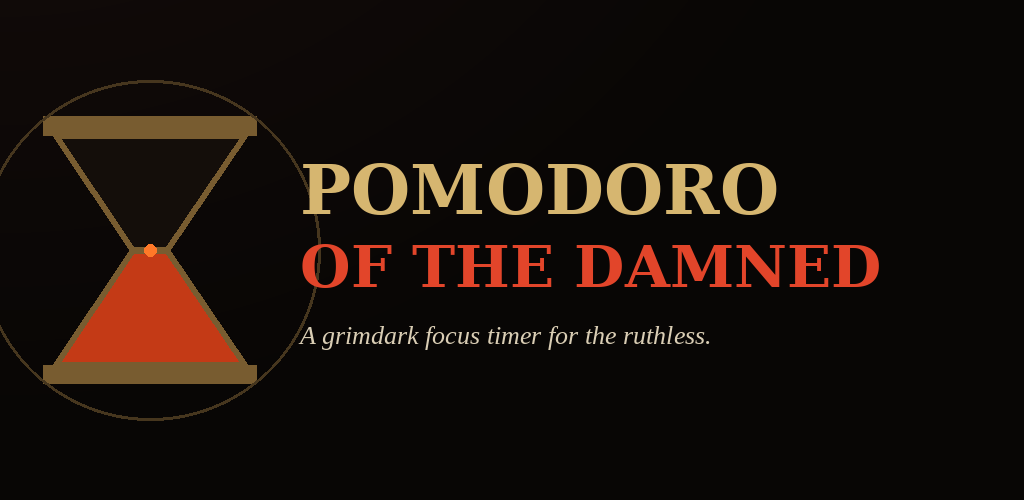
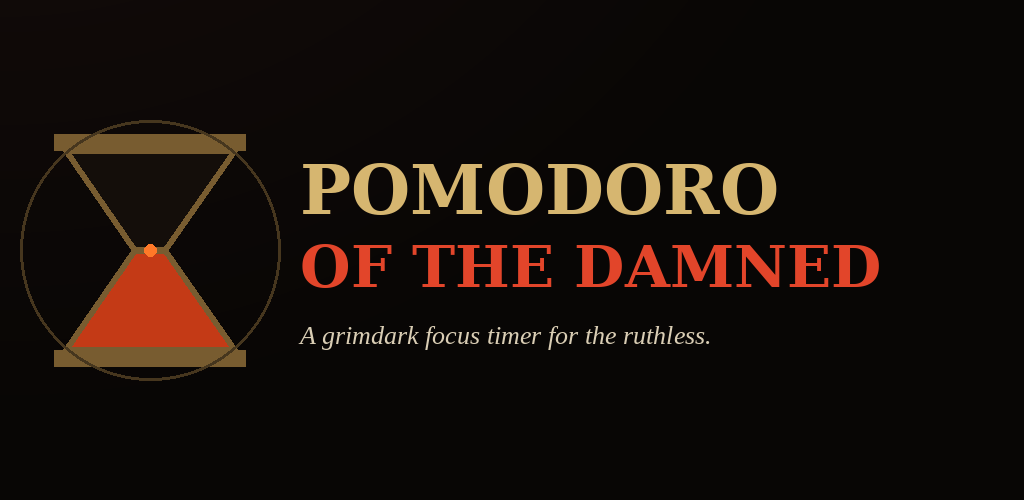
Fix clipped ring in the Play Store feature graphic
The hourglass's decorative ring circle was positioned too close to
the left edge (center at x=150 with radius 170, putting its leftmost
point at x=-20), clipping it off-canvas and making the emblem look
lopsided. Repositioned with a smaller radius so the full circle fits
with margin on both sides.

Claude-Session: https://claude.ai/code/session_01AcSChinuz4wzQwEjLhm9gw

diff --git a/scripts/gen_feature_graphic.py b/scripts/gen_feature_graphic.py
@@ -22,11 +22,11 @@ def main():
     draw = ImageDraw.Draw(img)
 
     cx, cy = 150, H / 2
-    half_w, half_h = 95, 115
+    half_w, half_h = 85, 100
     draw_hourglass(draw, cx, cy, half_w, half_h, BRONZE, (20, 14, 10), EMBER, 6)
     draw.ellipse([cx - 6, cy - 6, cx + 6, cy + 6], fill=EMBER_BRIGHT)
 
-    ring_r = 170
+    ring_r = 130
     draw.ellipse([cx - ring_r, cy - ring_r, cx + ring_r, cy + ring_r], outline=BRONZE_DIM, width=3)
 
     serif_bold = find_font([
